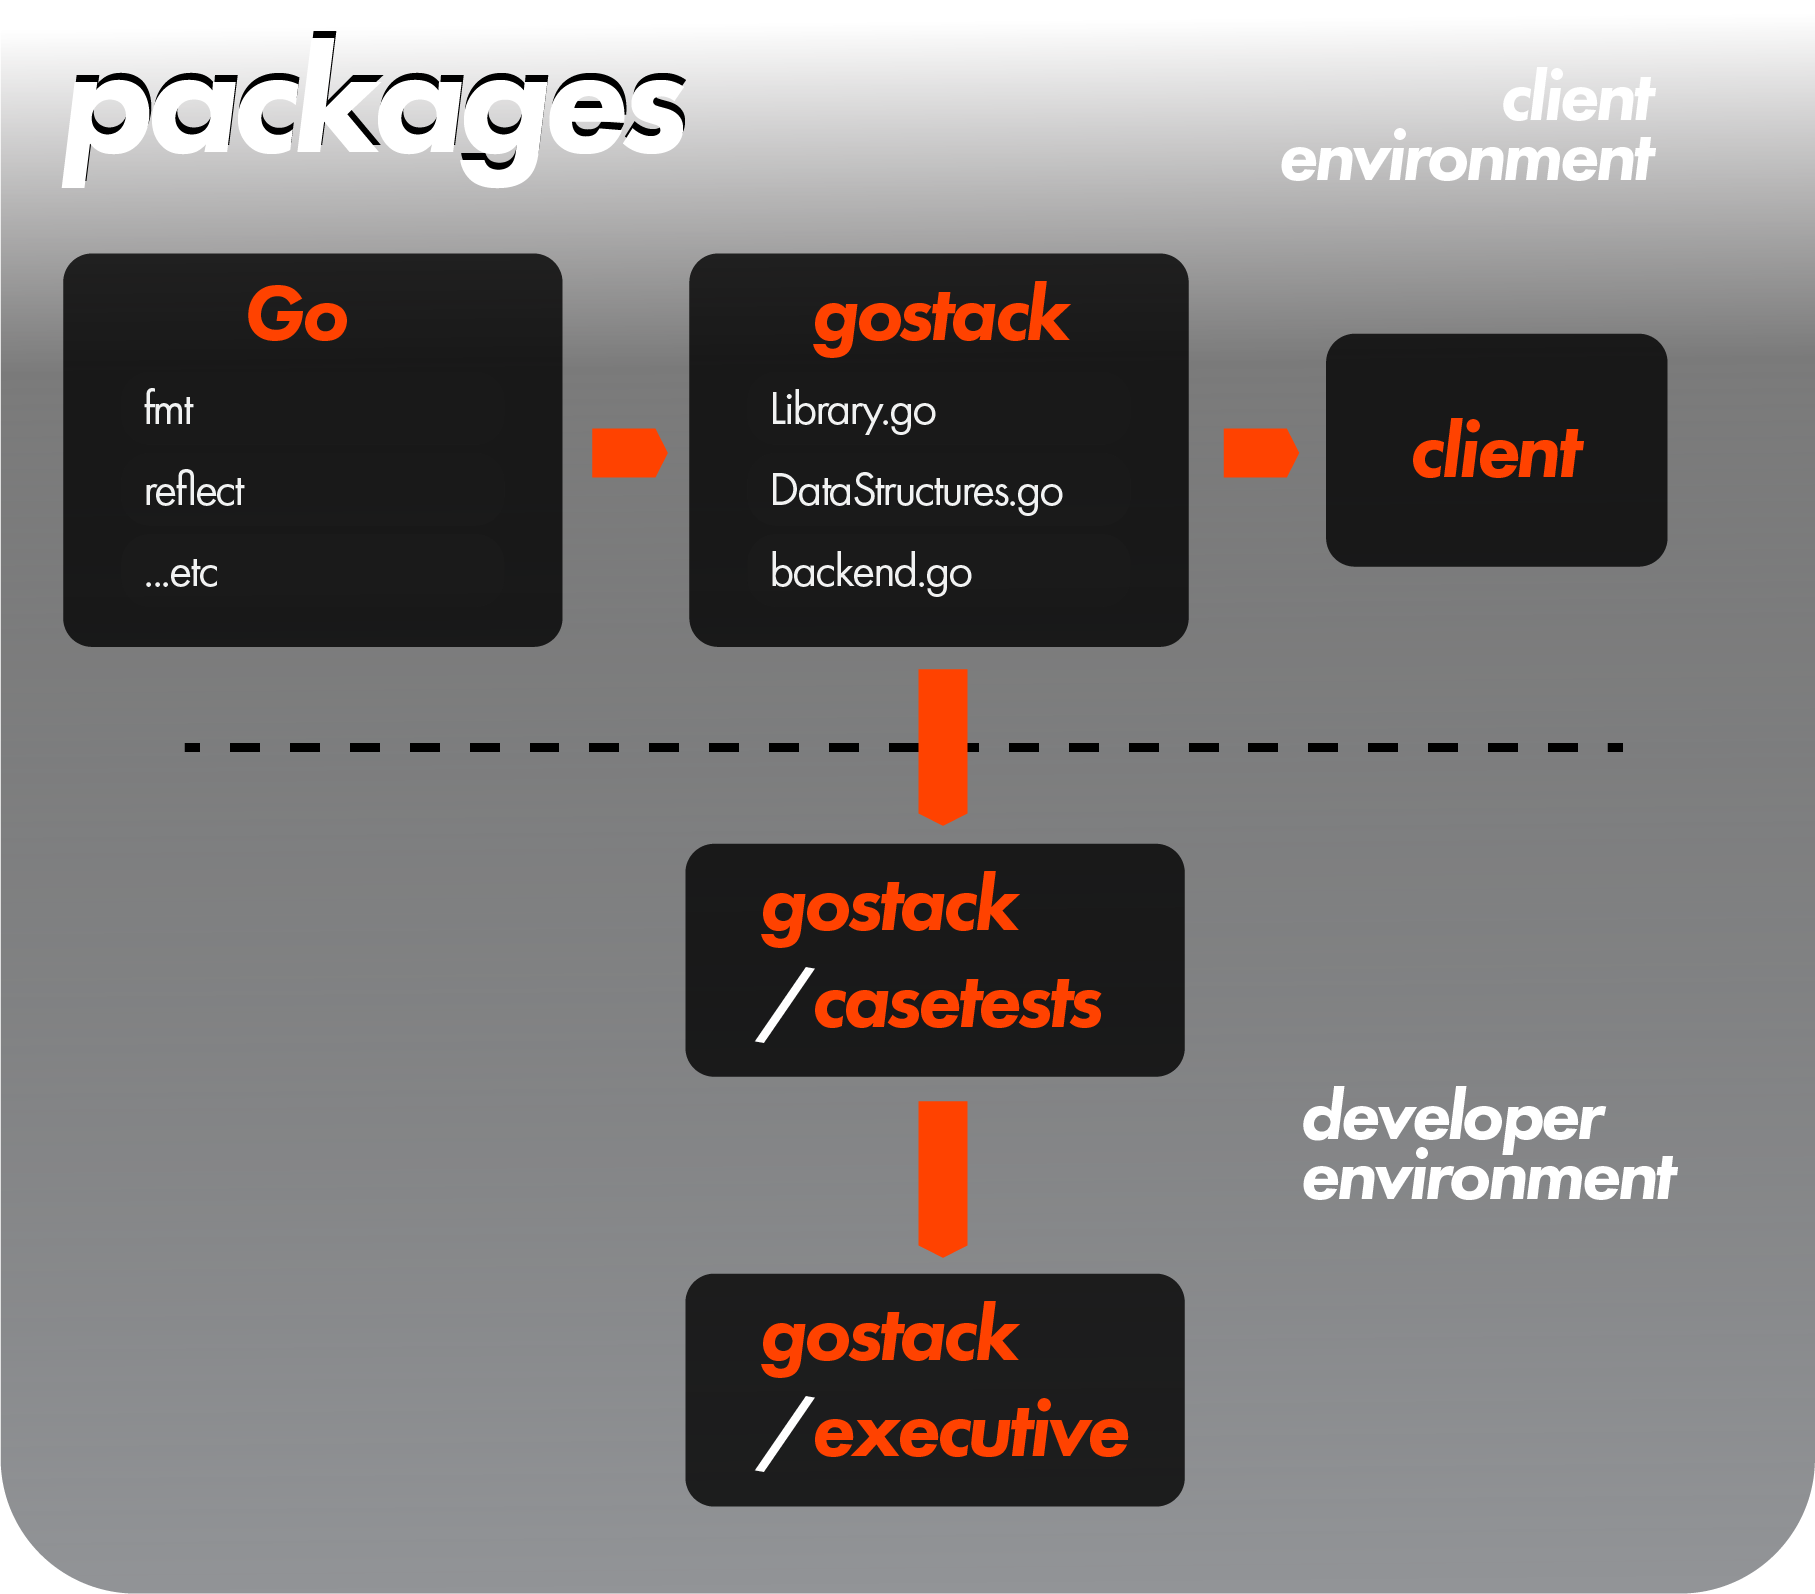
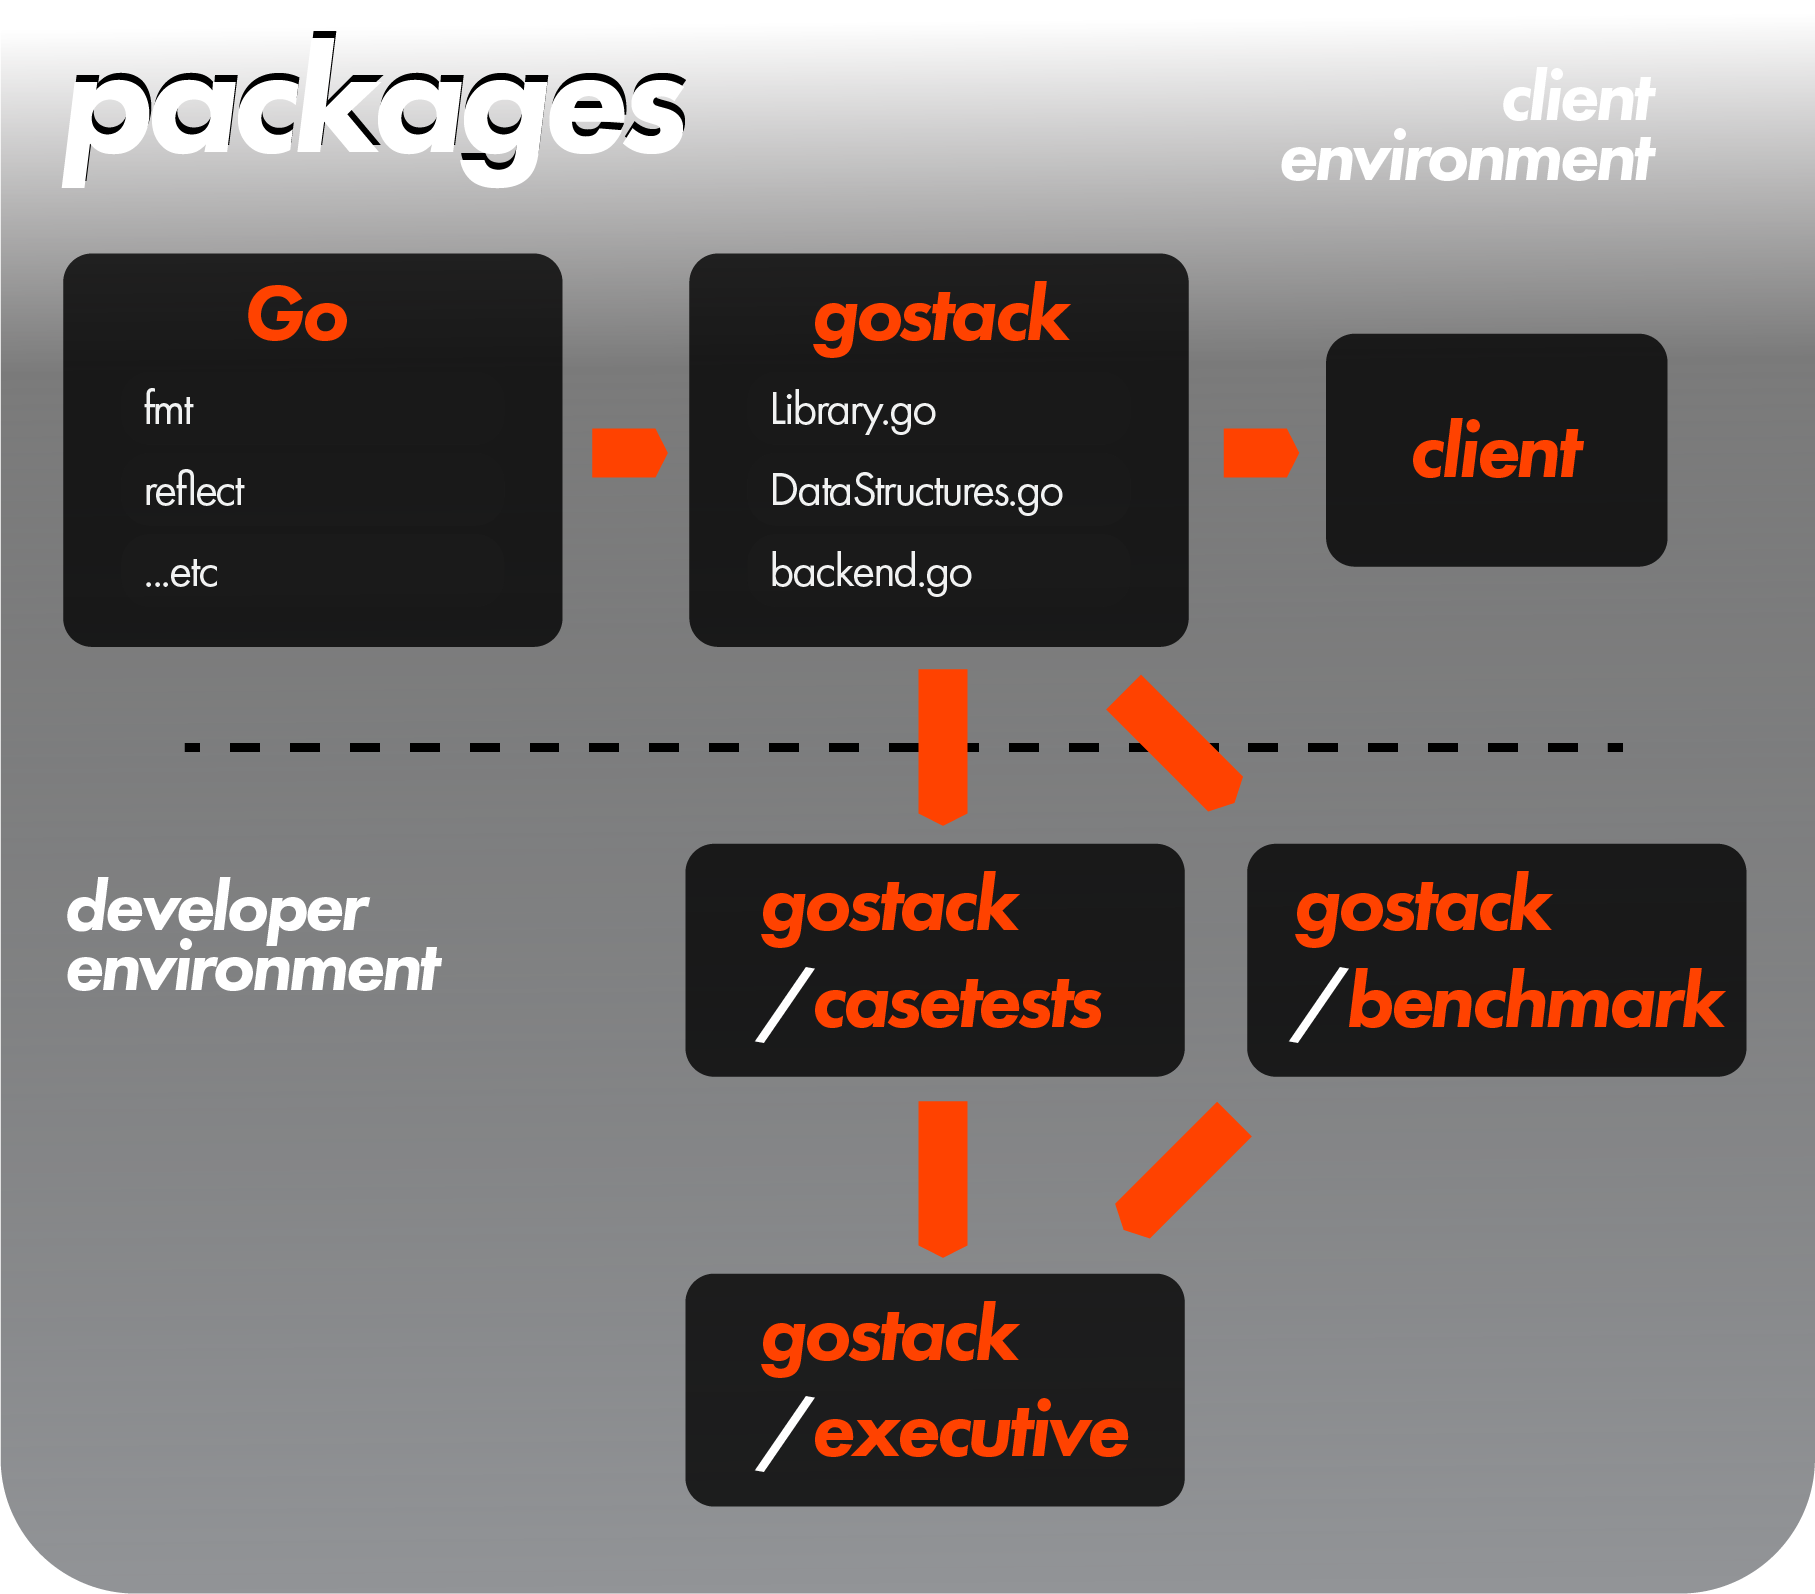
Updated Benchmark

Changed region(s): [[0.6171, 0.5226, 0.9873, 0.7992], [0.0309, 0.5533, 0.2468, 0.6455], [0.6171, 0.4304, 0.6788, 0.5226]]

diff --git a/executive/executive.go b/executive/executive.go
@@ -3,18 +3,15 @@ package main
 import (
 	"github.com/gabetucker2/gogenerics"
 	"github.com/gabetucker2/gostack/testing"
+	"github.com/gabetucker2/gostack/benchmark"
 )
 
 func main() {
 
 	// remove import errors when stuff is commented out
-	gogenerics.RemoveUnusedError(testing.Run)
+	gogenerics.RemoveUnusedError(testing.Run, benchmark.Run)
 
-	// tests
 	testing.Run(true)
-
-	// tutorials
-	// tutorials.Bootstrap()
-	// tutorials.Lambda()
+	benchmark.Run()
 
 }

diff --git a/benchmark/Benchmark.go b/benchmark/Benchmark.go
@@ -1,0 +1,9 @@
+package benchmark
+
+import (
+	"fmt"
+)
+
+func Run() {
+	fmt.Println(" - BEGINNING BENCHMARKS (fix errors in descending order)")
+}
